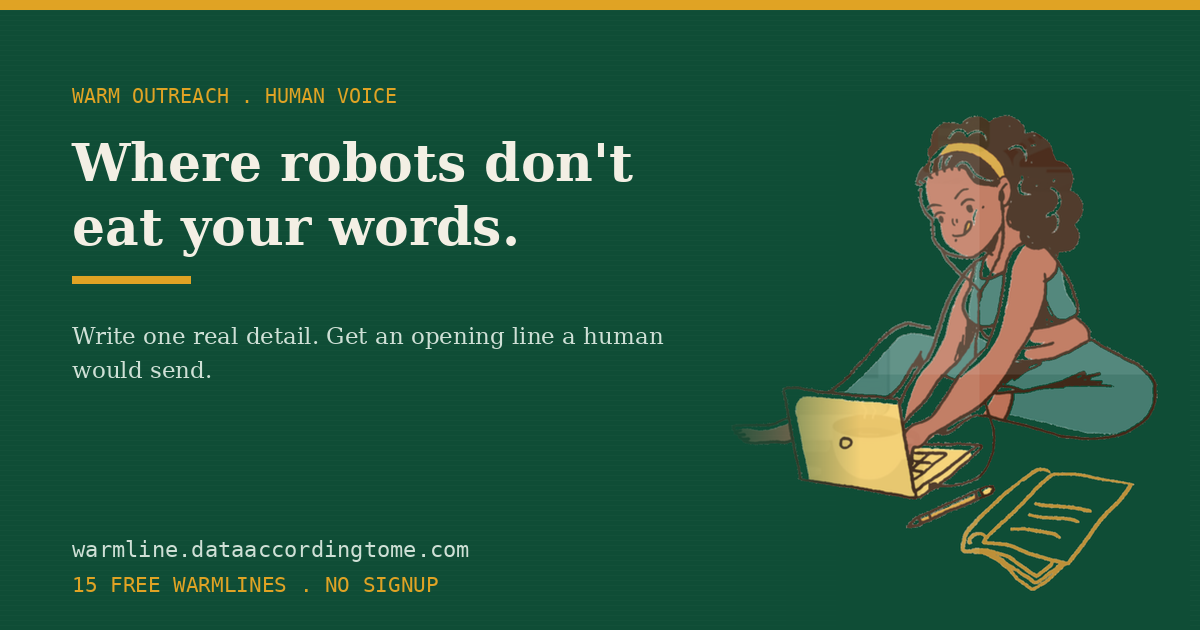
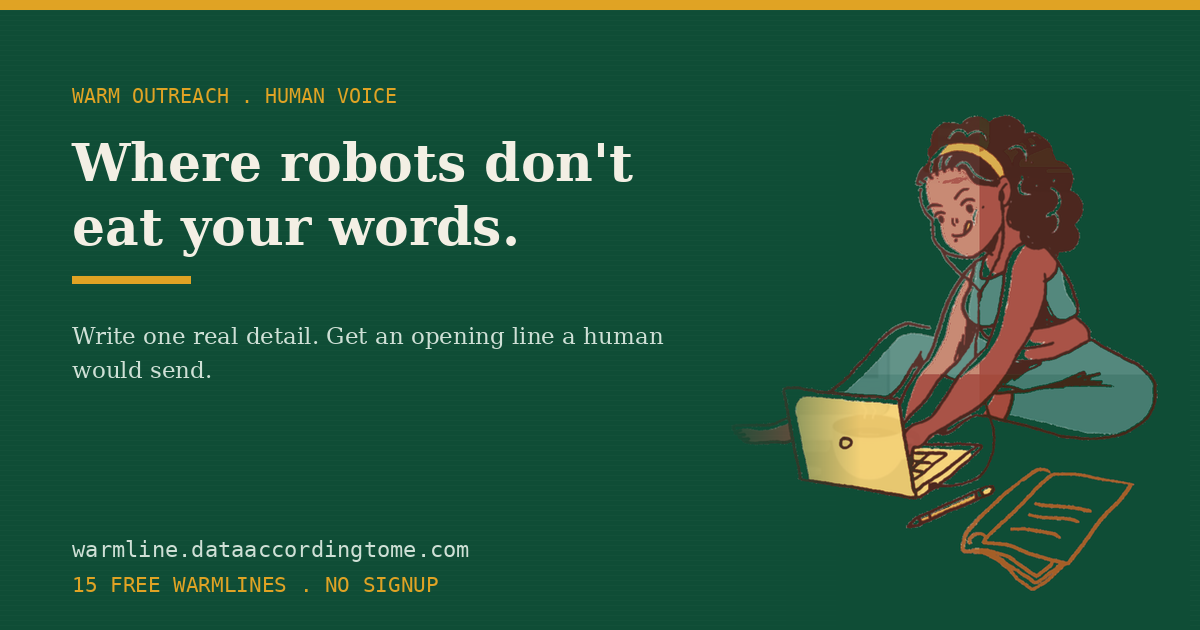
hero/share card updates

Changed region(s): [[0.74, 0.181, 0.9558, 0.9349]]

diff --git a/api/research.js b/api/research.js
@@ -1,0 +1,69 @@
+// api/research.js — V2, PAID TIER ONLY. Not wired into the site yet.
+//
+// Given a company name, does ONE web search and returns the single most recent
+// concrete fact about them, so write.js can work it into the opener. This is
+// the feature people pay for: the opener references something real and current
+// that the user never had to type.
+//
+// WHY IT IS GATED: a search plus a longer prompt roughly triples the cost per
+// opener. On the free tier that empties the $5 balance in an afternoon. So this
+// only runs for a paid, verified email. write.js must confirm paid status
+// BEFORE calling this.
+//
+// STATUS: scaffold. It will not run until:
+//   1. A search provider key is added to Vercel (e.g. BRAVE_SEARCH_KEY, or swap
+//      in whichever provider you choose).
+//   2. write.js is updated to call it for paid users.
+// Nothing here touches the live free tool.
+
+function searchConfig() {
+  // Swap this for whatever search API you pick. Brave and Serper both have
+  // cheap/free tiers and a simple JSON response.
+  const key = process.env.BRAVE_SEARCH_KEY || process.env.SERPER_KEY;
+  return key || null;
+}
+
+// Returns a short factual string, or null if nothing solid was found.
+// Deliberately returns null rather than guessing — a made-up "fact" in a cold
+// opener is worse than no fact at all.
+export async function researchCompany(company) {
+  const name = String(company || "").trim().slice(0, 120);
+  if (!name) return null;
+
+  const key = searchConfig();
+  if (!key) return null; // not configured yet — caller falls back to no-research
+
+  try {
+    // Example shape for Brave. Adjust to your chosen provider.
+    const r = await fetch(
+      "https://api.search.brave.com/res/v1/web/search?q=" +
+        encodeURIComponent(`${name} news`),
+      { headers: { "X-Subscription-Token": key, Accept: "application/json" } }
+    );
+    if (!r.ok) return null;
+    const data = await r.json();
+    const first = data?.web?.results?.[0];
+    if (!first) return null;
+
+    // Hand back a compact fact for the prompt: title + description, trimmed.
+    const fact = [first.title, first.description]
+      .filter(Boolean)
+      .join(" — ")
+      .replace(/\s+/g, " ")
+      .slice(0, 240);
+    return fact || null;
+  } catch {
+    return null; // never let a research hiccup break the opener
+  }
+}
+
+// Optional HTTP handler, so this can be tested on its own once a key exists.
+// Guarded so it can't be abused as a free search proxy: it should only ever be
+// reachable behind the paid check in write.js in production.
+export default async function handler(req, res) {
+  if (req.method !== "POST") return res.status(405).json({ error: "Method not allowed" });
+  if (!searchConfig()) return res.status(200).json({ fact: null, status: "not configured" });
+  const { company = "" } = req.body || {};
+  const fact = await researchCompany(company);
+  return res.status(200).json({ fact });
+}

diff --git a/social/share_hero.py b/social/share_hero.py
@@ -1,0 +1,115 @@
+#!/usr/bin/env python3
+"""THE share card (og:image), built as the hero design at 1200x630.
+This is the file that shows when the link is pasted anywhere."""
+import sys
+import numpy as np
+from PIL import Image, ImageDraw, ImageFont, ImageFilter, ImageEnhance
+
+PAPER="#f3efe4"; INK="#1b2a24"; INK_SOFT="#4a5a51"
+GREEN="#1d6e4f"; GREEN_DEEP="#0f4d36"; GOLD="#e0a324"
+F="/usr/share/fonts/truetype/dejavu/"
+SERIF,SERIF_B=F+"DejaVuSerif.ttf",F+"DejaVuSerif-Bold.ttf"
+MONO,MONO_B=F+"DejaVuSansMono.ttf",F+"DejaVuSansMono-Bold.ttf"
+
+def font(p,s): return ImageFont.truetype(p,s)
+def tw(d,s,f): return d.textbbox((0,0),s,font=f)[2]
+def wrap(d,s,f,w):
+    o,c=[],""
+    for x in s.split():
+        t=(c+" "+x).strip()
+        if tw(d,t,f)<=w: c=t
+        else:
+            if c: o.append(c)
+            c=x
+    if c: o.append(c)
+    return o
+
+def marble(w,h,seed=9):
+    rng=np.random.default_rng(seed); tot=np.zeros((h,w),np.float32); amp=1.
+    for o in range(6):
+        r=max(2,2**(o+2))
+        tot+=np.asarray(Image.fromarray((rng.random((r,r))*255).astype(np.uint8))
+                        .resize((w,h),Image.BICUBIC),np.float32)/255.*amp; amp*=.5
+    tot=(tot-tot.min())/(tot.max()+1e-9)
+    yy,xx=np.mgrid[0:h,0:w].astype(np.float32)
+    v=np.sin((xx/w*6+yy/h*4+tot*3.2)*np.pi); v=((v+1)/2)**1.7
+    v=np.asarray(Image.fromarray((v*255).astype(np.uint8)).filter(ImageFilter.GaussianBlur(1.5)),np.float32)/255.*0.5
+    base=np.array([243,239,228],np.float32); vein=np.array([227,220,202],np.float32)
+    return Image.fromarray(np.clip(base[None,None,:]*(1-v[...,None])+vein[None,None,:]*v[...,None],0,255)
+                           .astype(np.uint8)).convert("RGBA")
+
+GIRL_BOX=(180,1360,1010,2290)
+def girl_cutout(src,tol=64):
+    im=Image.open(src).convert("RGB").crop(GIRL_BOX)
+    a=np.asarray(im,np.int16); h,w,_=a.shape
+    pts=[(4,4),(4,w-5),(h-5,4),(h-5,w-5),(h//2,4),(4,w//2),(h-5,w//2),(h//3,w-5)]
+    m=np.zeros((h,w),bool)
+    for y,x in pts: m|=(np.abs(a-a[y,x]).sum(axis=2)<tol)
+    # darken skin -> brown
+    res=a.astype(np.float32)
+    R,G,B=res[...,0],res[...,1],res[...,2]; val=(R+G+B)/3
+    skin=(~m)&(R>B+8)&(val>55)&(val<150)
+    res[...,0][skin]=np.clip(R[skin]*0.82+10,0,255)
+    res[...,1][skin]=np.clip(G[skin]*0.66,0,255)
+    res[...,2][skin]=np.clip(B[skin]*0.70,0,255)
+    al=np.where(m,0,255).astype(np.uint8)
+    al=np.asarray(Image.fromarray(al).filter(ImageFilter.MinFilter(3)).filter(ImageFilter.GaussianBlur(1.0)))
+    im=Image.fromarray(np.dstack([np.clip(res,0,255).astype(np.uint8),al]),"RGBA")
+    bb=im.getbbox()
+    return im.crop(bb) if bb else im
+
+def phone(shot,w,h):
+    bez=max(9,w//26); rad=w//7
+    card=Image.new("RGBA",(w,h),(0,0,0,0)); d=ImageDraw.Draw(card)
+    d.rounded_rectangle([0,0,w,h],radius=rad,fill="#14201b")
+    sw,sh=w-bez*2,h-bez*2
+    im=Image.open(shot).convert("RGB")
+    im=im.resize((sw,int(im.height*sw/im.width)),Image.LANCZOS).crop((0,0,sw,min(sh,int(im.height*sw/im.width))))
+    if im.height<sh:
+        pad=Image.new("RGB",(sw,sh),PAPER); pad.paste(im,(0,0)); im=pad
+    m=Image.new("L",(sw,sh),0)
+    ImageDraw.Draw(m).rounded_rectangle([0,0,sw,sh],radius=rad-bez//2,fill=255)
+    card.paste(im,(bez,bez),m)
+    nw,nh=w//3,max(6,h//90); nx=(w-nw)//2
+    d.rounded_rectangle([nx,bez//2,nx+nw,bez//2+nh],radius=nh//2,fill="#14201b")
+    return card
+
+def shadow(base,card,xy,blur=26,alpha=100,off=(10,15)):
+    s=Image.new("RGBA",base.size,(0,0,0,0))
+    s.paste(Image.new("RGBA",card.size,(8,26,18,alpha)),(xy[0]+off[0],xy[1]+off[1]),card)
+    base.alpha_composite(s.filter(ImageFilter.GaussianBlur(blur)))
+
+def build(shot,out,W=1200,H=630):
+    split=580
+    img=Image.new("RGBA",(W,H),GREEN_DEEP)
+    img.alpha_composite(marble(split,H),(0,0))
+    d=ImageDraw.Draw(img)
+    d.rectangle([0,0,W,8],fill=GOLD)
+
+    M=54
+    d.text((M,58),"WARMLINE",font=font(MONO_B,34),fill=GREEN_DEEP)
+    d.text((M,104),"WARM OUTREACH . HUMAN VOICE",font=font(MONO,16),fill=INK_SOFT)
+    fh=font(SERIF_B,42); y=140
+    d.text((M,y),"Don't overthink it.",font=fh,fill=INK); y+=50
+    d.text((M,y),"Just send it.",font=fh,fill=GREEN); y+=58
+    d.rectangle([M,y,M+96,y+7],fill=GOLD); y+=26
+    for ln in wrap(d,"Write one real detail. Get an opening line a human would send.",font(SERIF,21),split-M-30):
+        d.text((M,y),ln,font=font(SERIF,21),fill=INK_SOFT); y+=30
+
+    g=girl_cutout(shot)
+    gh=196; g=g.resize((int(g.width*gh/g.height),gh),Image.LANCZOS)
+    img.alpha_composite(g,(M-14,H-gh-70))
+
+    d.text((M,H-56),"warmline.dataaccordingtome.com",font=font(MONO,19),fill=INK_SOFT)
+    d.text((M,H-32),"15 FREE WARMLINES . NO SIGNUP",font=font(MONO,16),fill=GREEN)
+
+    pw=268; ph=int(pw/0.489)   # ~548
+    px=split+(W-split-pw)//2; py=(H-ph)//2
+    c=phone(shot2,pw,ph)
+    shadow(img,c,(px,py)); img.alpha_composite(c,(px,py))
+    img.convert("RGB").save(out,"PNG",optimize=True); return out
+
+if __name__=="__main__":
+    shot=sys.argv[1]; global_shot2=None
+    shot2=sys.argv[2]
+    print(build(sys.argv[1],sys.argv[3]))

diff --git a/social/make_green.py b/social/make_green.py
@@ -53,7 +53,17 @@ def cut_girl(src, flat="#0f4d36", tol=46):
         mask |= (np.abs(a - smp).sum(axis=2) < tol)
     out = a.copy()
     out[mask] = target
-    return Image.fromarray(out.astype(np.uint8))
+    res = out.astype(np.float32)
+    # Darken her skin. Skin reads as the warm, mid-bright pixels (R noticeably
+    # above B, not the bright yellow laptop and not the teal outfit). Deepen
+    # those toward brown by dropping brightness and nudging red up, green down.
+    R,G,B = res[...,0],res[...,1],res[...,2]
+    val = (R+G+B)/3
+    skin = (~mask) & (R > B+8) & (val > 55) & (val < 150)
+    res[...,0][skin] = np.clip(R[skin]*0.82 + 10, 0,255)   # keep red, deepen
+    res[...,1][skin] = np.clip(G[skin]*0.66, 0,255)        # pull the green wash out
+    res[...,2][skin] = np.clip(B[skin]*0.70, 0,255)        # darker overall
+    return Image.fromarray(np.clip(res,0,255).astype(np.uint8))
 
 def green_card(src, out, W=1200, H=630):
     img = Image.new("RGB",(W,H),GREEN_DEEP)

diff --git a/V2_PLAN.md b/V2_PLAN.md
@@ -1,0 +1,87 @@
+# Warmline V2 — the paid tier
+
+The free tool proves the idea. V2 is what someone pays for. Written so it can
+be built in stages, cheapest-risk first, without breaking the live free site.
+
+## What people pay for (from the product notes)
+
+The flagship paid feature is **company research** — the thing the notes list as
+"Company research integration." Free Warmline writes from the one detail you
+type. Paid Warmline *also looks the company up* and works a real, current fact
+into the opener that you didn't have to supply. That is the clearest reason to
+pay, and it's the one competitors can't fake with a template.
+
+Secondary paid features already named: unlimited openers, CSV import (paste a
+list, get a warmline for each row), and later the LinkedIn / recruiter / follow-up
+variants.
+
+## The three pieces V2 needs
+
+### 1. A way to take payment — Stripe, not Gumroad
+
+Gumroad sells a file or a license link. Warmline sells *more access on the site*,
+so the tool is Stripe.
+
+The flow, in plain terms:
+1. Visitor clicks "Upgrade" on the site.
+2. They land on a **Stripe Payment Link** (a URL Stripe gives you — you make it
+   in the Stripe dashboard, no code). Stripe collects the card. You never touch
+   card details, and neither does Claude.
+3. Stripe sends a "someone paid" message to a small endpoint on your site
+   (`api/stripe-webhook.js`). That endpoint writes the payer's email into Redis:
+   `warmline:paid:<email> = <date>`.
+4. From then on, `write.js` checks that key. If the email is marked paid, it
+   skips the 15-line limit and turns on company research.
+
+What you set up (not code, dashboard clicks): a Stripe account, one Product
+(e.g. "Warmline Unlimited, $9/mo"), one Payment Link, and one webhook pointing
+at `https://warmline.dataaccordingtome.com/api/stripe-webhook`. Stripe gives you
+two secrets — a webhook signing secret and an API key — that go into Vercel
+environment variables, exactly like `ANTHROPIC_API_KEY`. Claude cannot enter
+these for you; you paste them into Vercel yourself.
+
+### 2. Company research — the paid magic
+
+New endpoint `api/research.js` (scaffolded alongside this plan, inert until
+wired). Given a company name it does one web search, pulls the single most
+recent concrete fact (a launch, a hire, a number, a post), and hands that back.
+`write.js` then feeds that fact into the prompt so the opener references
+something real and current.
+
+Cost reality: this roughly triples the per-opener cost (a search plus a longer
+prompt). That is exactly why it's paid, not free. On the free tier it would
+drain the $5 in an afternoon; on the paid tier the customer covers it.
+
+### 3. Knowing who paid
+
+Free stays free, 15 per browser, no login. Paid users are identified by the
+email they paid with. Simplest V2: after paying, they get a link with their
+email token, or they enter the email they paid with once and the browser
+remembers it. No passwords, no accounts to build. (A real login can come later;
+don't build it for V2.)
+
+## Build order (cheapest risk first)
+
+1. **Stripe Payment Link + a real "Upgrade" button** that goes to it. No backend
+   yet. You can literally start taking money before the gating exists, and mark
+   the first few payers by hand. Proves someone will pay.
+2. **`api/stripe-webhook.js`** — writes `warmline:paid:<email>` on payment.
+3. **Paid check in `write.js`** — if paid, skip the 15 limit.
+4. **`api/research.js`** + wire it into `write.js` for paid users only.
+5. **CSV import** in the UI for paid users.
+
+Ship 1 and 2, then stop and see if anyone pays before building 4.
+
+## What NOT to do in V2
+
+- No user accounts or passwords. Email-on-file is enough.
+- No company research on the free tier — it will bankrupt the $5.
+- Don't raise the free rate limits to cover research; gate research behind paid.
+
+## The homepage line, from the notes (worth using verbatim)
+
+> A warmline is a personalized opening sentence for cold outreach.
+> Tell us who you're contacting. We'll write the opener. You write the rest.
+
+Clearer than anything currently on the site. The "cold email / warmline" pairing
+reads like a category, not a feature — lean on it.
